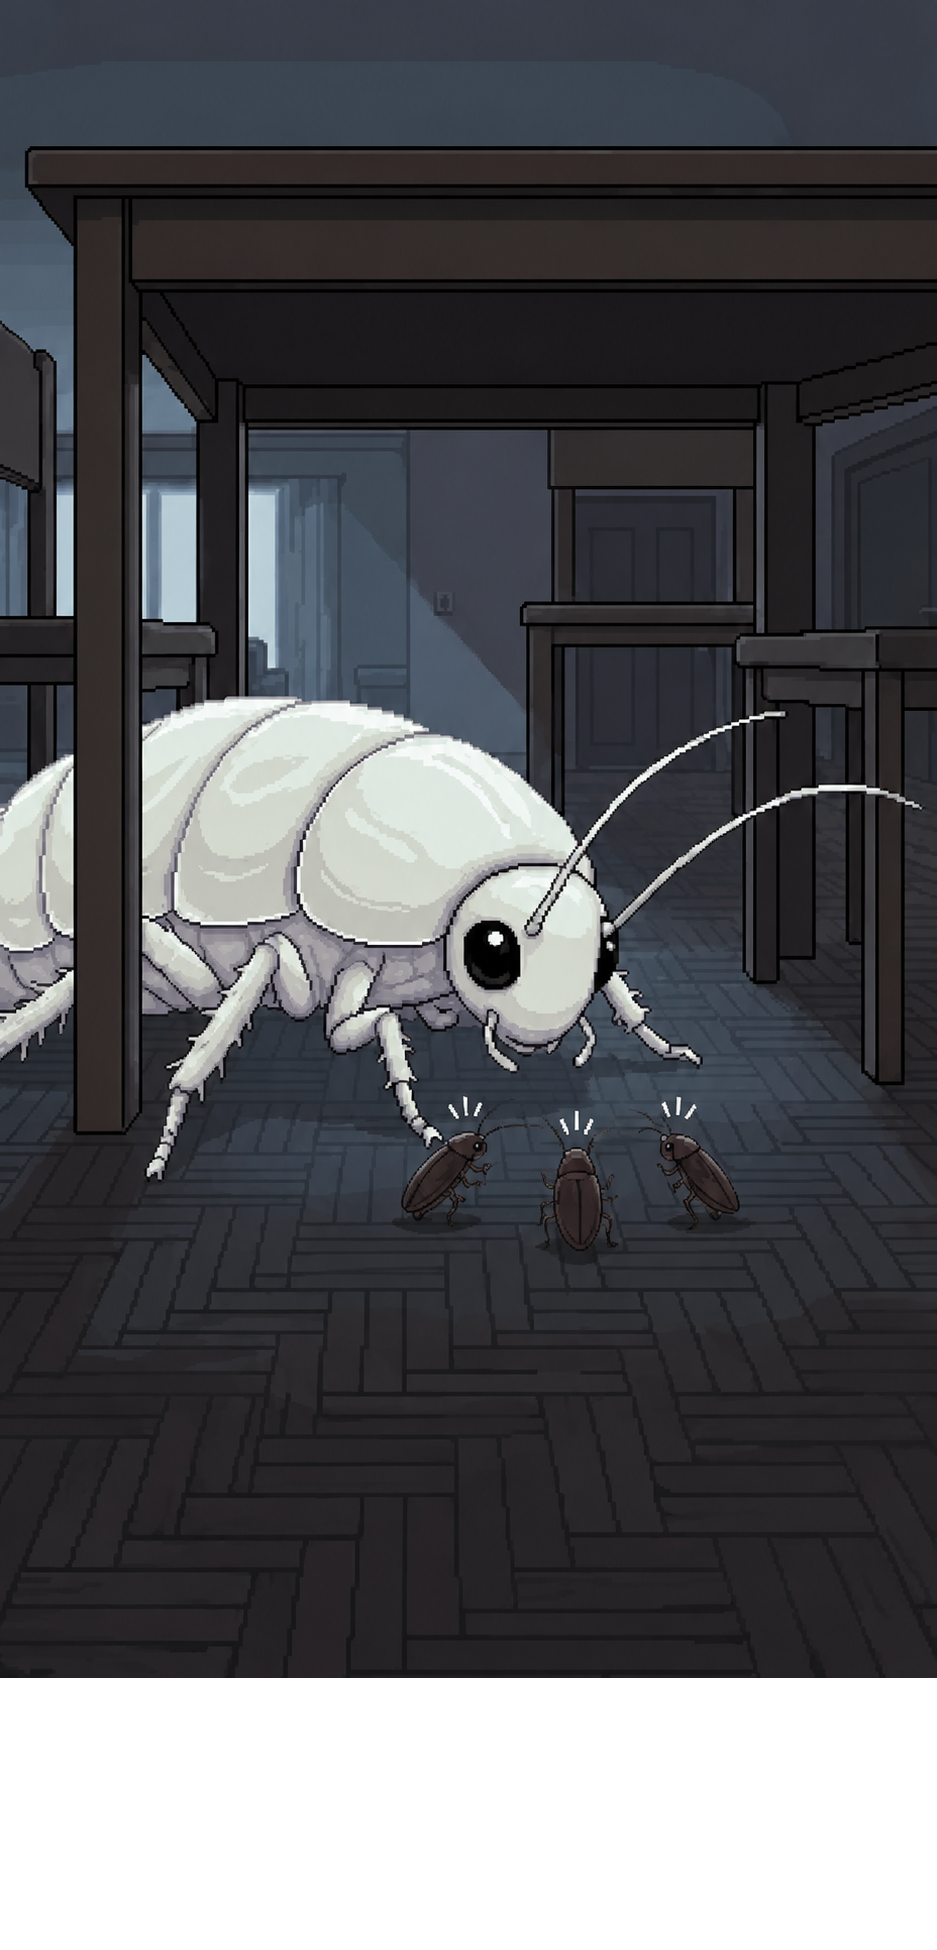
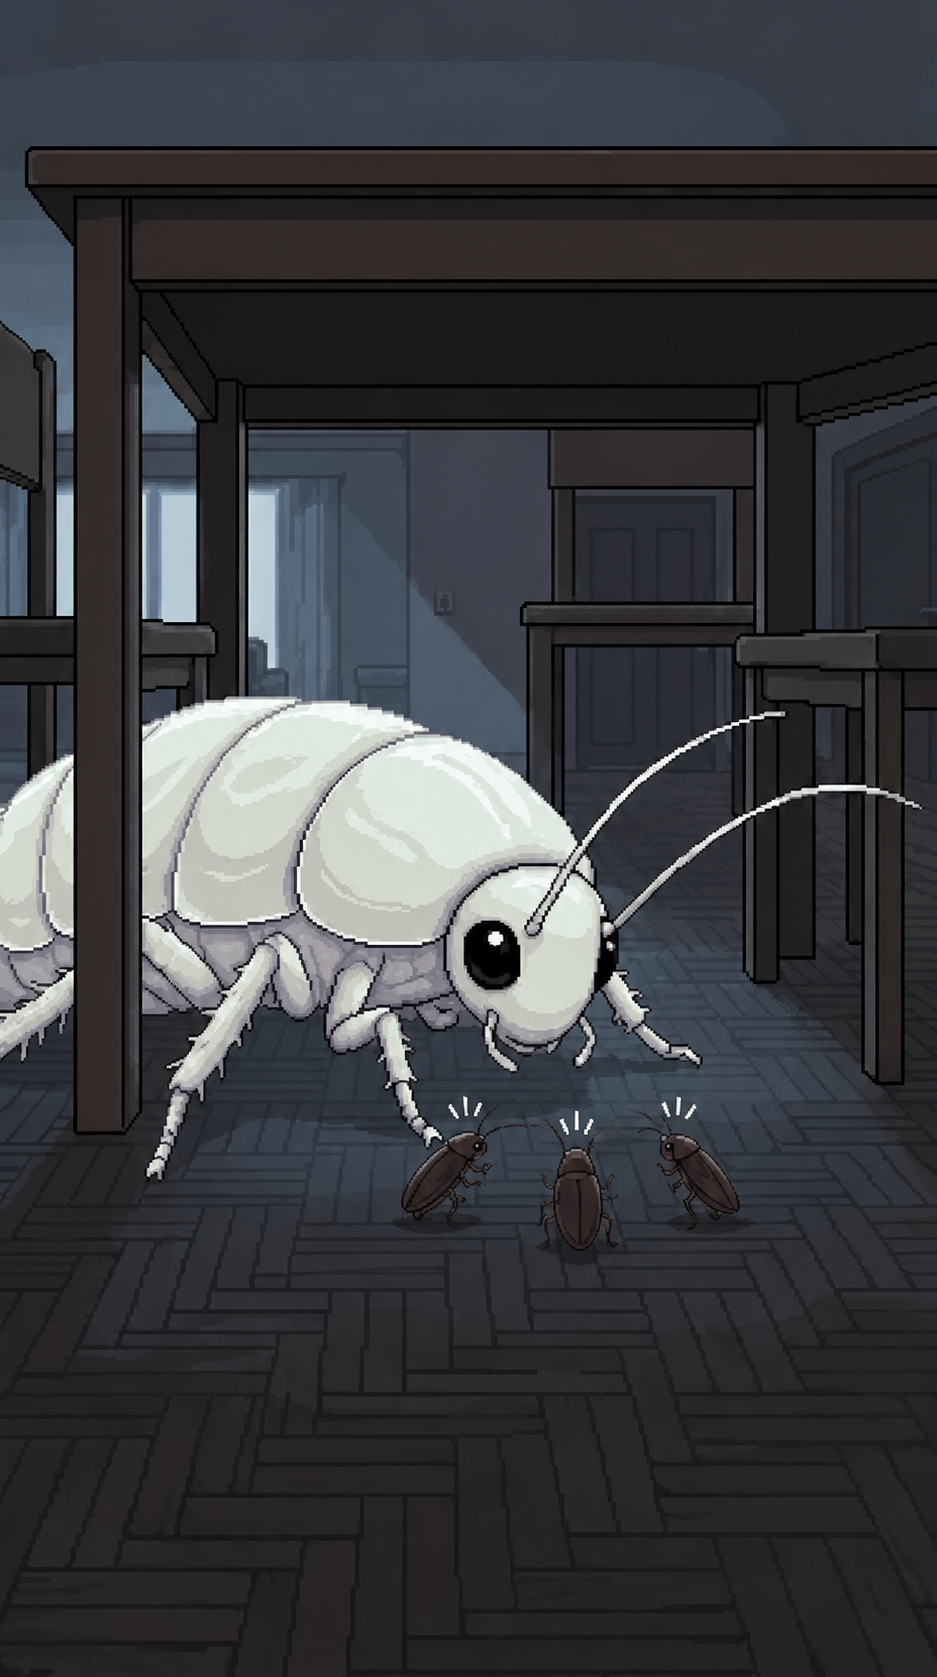
這次修改的說明

diff --git a/style.css b/style.css
@@ -190,7 +190,7 @@ html, body {
     background: #101311;
 
     /* 像素直角＋微鏽蝕暗琥珀金屬邊框＋階梯外框與厚重懸浮陰影 */
-    border-radius: 0;
+    border-radius: 18px;
     border: 4px solid #8a7848;
     box-shadow:
         inset 0 0 0 2px #1e221b,
@@ -383,6 +383,7 @@ html, body {
     margin: 6px;
     padding: 10px 14px;
     background: #090b0a;
+    border-radius: 10px; /* 👈 新增這一行，貼合卡片底部圓角 */
 
     /* 經典 RPG 雙層像素邊框 */
     border: 2px solid #8a7848;
@@ -447,6 +448,7 @@ html, body {
     right: 6px;
     bottom: 6px;
     z-index: 20;
+    border-radius: 10px; /* 👈 新增這一行，滑卡選項淡入時也會對齊圓角 */
 
     display: flex;
     justify-content: center;
